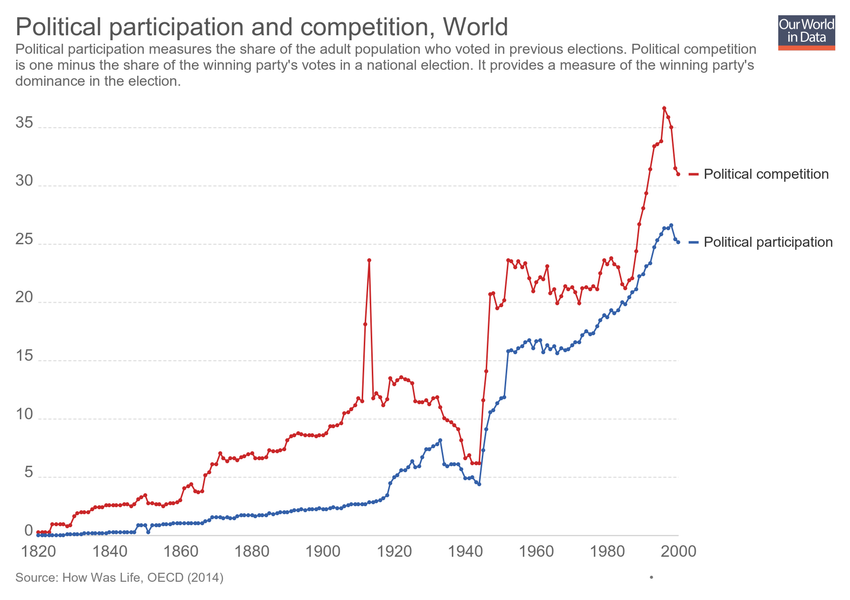
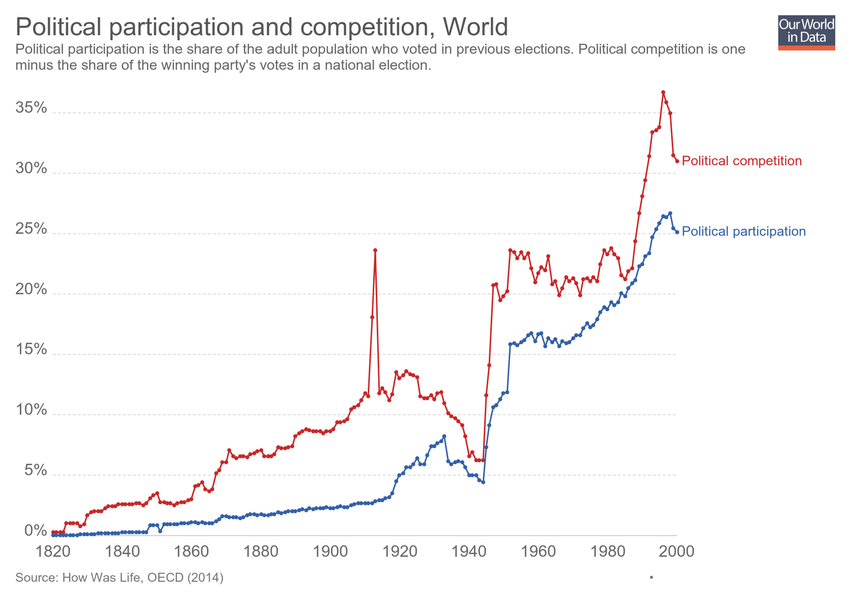
Updating chart political-participation-and-competition

diff --git a/grapher/political-participation-and-competition.html b/grapher/political-participation-and-competition.html
@@ -1,4 +1,4 @@
-<!doctype html><html><head><meta name="viewport" content="width=device-width, initial-scale=1" /><title>Political participation and competition - Our World in Data</title><meta name="description" content="Political participation measures the share of the adult population who voted in previous elections. Political competition is one minus the share of the winning party's votes in a national election. It provides a measure of the winning party's dominance in the election. " /><link rel="canonical" href="https://ourworldindata.org/grapher/political-participation-and-competition" /><meta property="fb:app_id" content="1149943818390250" /><meta property="og:url" content="https://ourworldindata.org/grapher/political-participation-and-competition" /><meta property="og:title" content="Political participation and competition" /><meta property="og:description" content="Political participation measures the share of the adult population who voted in previous elections. Political competition is one minus the share of the winning party's votes in a national election. It provides a measure of the winning party's dominance in the election. " /><meta property="og:image" content="https://ourworldindata.org/grapher/exports/political-participation-and-competition.png?v=2" /><meta property="og:image:width" content="850" /><meta property="og:image:height" content="600" /><meta property="og:site_name" content="Our World in Data" /><meta name="twitter:card" content="summary_large_image" /><meta name="twitter:site" content="@OurWorldInData" /><meta name="twitter:creator" content="@OurWorldInData" /><meta name="twitter:title" content="Political participation and competition" /><meta name="twitter:description" content="Political participation measures the share of the adult population who voted in previous elections. Political competition is one minus the share of the winning party's votes in a national election. It provides a measure of the winning party's dominance in the election. " /><meta name="twitter:image" content="https://ourworldindata.org/grapher/exports/political-participation-and-competition.png?v=2" /><style>
+<!doctype html><html><head><meta name="viewport" content="width=device-width, initial-scale=1" /><title>Political participation and competition - Our World in Data</title><meta name="description" content="Political participation is the share of the adult population who voted in previous elections. Political competition is one minus the share of the winning party's votes in a national election." /><link rel="canonical" href="https://ourworldindata.org/grapher/political-participation-and-competition" /><meta property="fb:app_id" content="1149943818390250" /><meta property="og:url" content="https://ourworldindata.org/grapher/political-participation-and-competition" /><meta property="og:title" content="Political participation and competition" /><meta property="og:description" content="Political participation is the share of the adult population who voted in previous elections. Political competition is one minus the share of the winning party's votes in a national election." /><meta property="og:image" content="https://ourworldindata.org/grapher/exports/political-participation-and-competition.png?v=5" /><meta property="og:image:width" content="850" /><meta property="og:image:height" content="600" /><meta property="og:site_name" content="Our World in Data" /><meta name="twitter:card" content="summary_large_image" /><meta name="twitter:site" content="@OurWorldInData" /><meta name="twitter:creator" content="@OurWorldInData" /><meta name="twitter:title" content="Political participation and competition" /><meta name="twitter:description" content="Political participation is the share of the adult population who voted in previous elections. Political competition is one minus the share of the winning party's votes in a national election." /><meta name="twitter:image" content="https://ourworldindata.org/grapher/exports/political-participation-and-competition.png?v=5" /><style>
         html, body {
             height: 100%;
             margin: 0;
@@ -20,8 +20,8 @@
         }
     </style><noscript><style>
                     figure { display: none !important; }
-                </style></noscript><link rel="stylesheet" href="https://ourworldindata.org/grapher/assets/commons.bundle.dcbbe53805c487d5e57617b10ac73a8a.css" /><link rel="preload" href="/grapher/data/variables/85933+85932.json?v=2" as="fetch" crossorigin /></head><body class="singleChart"><figure data-grapher-src="/grapher/political-participation-and-competition"></figure><noscript id="fallback"><img src="/grapher/exports/political-participation-and-competition.svg" /><p>Interactive visualization requires JavaScript</p></noscript><script src="https://cdn.polyfill.io/v2/polyfill.min.js?features=es6,fetch"></script><script src="https://ourworldindata.org/grapher/assets/commons.bundle.43d139222ef978d52c09.js"></script><script src="https://ourworldindata.org/grapher/assets/charts.bundle.43d139222ef978d52c09.js"></script><script>
-        var jsonConfig = {"id":2348,"map":{"projection":"World","colorSchemeLabels":[],"colorSchemeValues":[],"defaultProjection":"World","colorSchemeMinValue":0,"customNumericColors":[],"customCategoryColors":{},"customCategoryLabels":{},"customHiddenCategories":{}},"tab":"chart","slug":"political-participation-and-competition","type":"LineChart","title":"Political participation and competition","xAxis":{"scaleType":"linear"},"yAxis":{"min":0,"scaleType":"linear"},"version":2,"subtitle":"Political participation measures the share of the adult population who voted in previous elections. Political competition is one minus the share of the winning party's votes in a national election. It provides a measure of the winning party's dominance in the election. ","hasMapTab":false,"stackMode":"absolute","dimensions":[{"display":{"name":"Political competition"},"property":"y","variableId":85933},{"display":{"name":"Political participation"},"property":"y","variableId":85932}],"hasChartTab":true,"isPublished":true,"selectedData":[{"index":0,"entityId":355},{"index":1,"entityId":355}],"addCountryMode":"change-country"};
+                </style></noscript><link rel="stylesheet" href="https://ourworldindata.org/grapher/assets/commons.bundle.dcbbe53805c487d5e57617b10ac73a8a.css" /><link rel="preload" href="/grapher/data/variables/85933+85932.json?v=5" as="fetch" crossorigin /></head><body class="singleChart"><figure data-grapher-src="/grapher/political-participation-and-competition"></figure><noscript id="fallback"><img src="/grapher/exports/political-participation-and-competition.svg" /><p>Interactive visualization requires JavaScript</p></noscript><script src="https://cdn.polyfill.io/v2/polyfill.min.js?features=es6,fetch"></script><script src="https://ourworldindata.org/grapher/assets/commons.bundle.43d139222ef978d52c09.js"></script><script src="https://ourworldindata.org/grapher/assets/charts.bundle.43d139222ef978d52c09.js"></script><script>
+        var jsonConfig = {"id":2348,"map":{"projection":"World","colorSchemeLabels":[],"colorSchemeValues":[],"colorSchemeMinValue":0,"customNumericColors":[],"customCategoryColors":{},"customCategoryLabels":{},"customHiddenCategories":{}},"tab":"chart","slug":"political-participation-and-competition","type":"LineChart","title":"Political participation and competition","xAxis":{"scaleType":"linear"},"yAxis":{"min":0,"scaleType":"linear"},"version":5,"subtitle":"Political participation is the share of the adult population who voted in previous elections. Political competition is one minus the share of the winning party's votes in a national election.","hasMapTab":false,"stackMode":"absolute","dimensions":[{"display":{"name":"Political competition"},"property":"y","variableId":85933},{"display":{"name":"Political participation"},"property":"y","variableId":85932}],"hasChartTab":true,"isPublished":true,"selectedData":[{"index":0,"entityId":355},{"index":1,"entityId":355}],"addCountryMode":"change-country"};
         var figure = document.getElementsByTagName("figure")[0];
         try {
             window.App = {};
